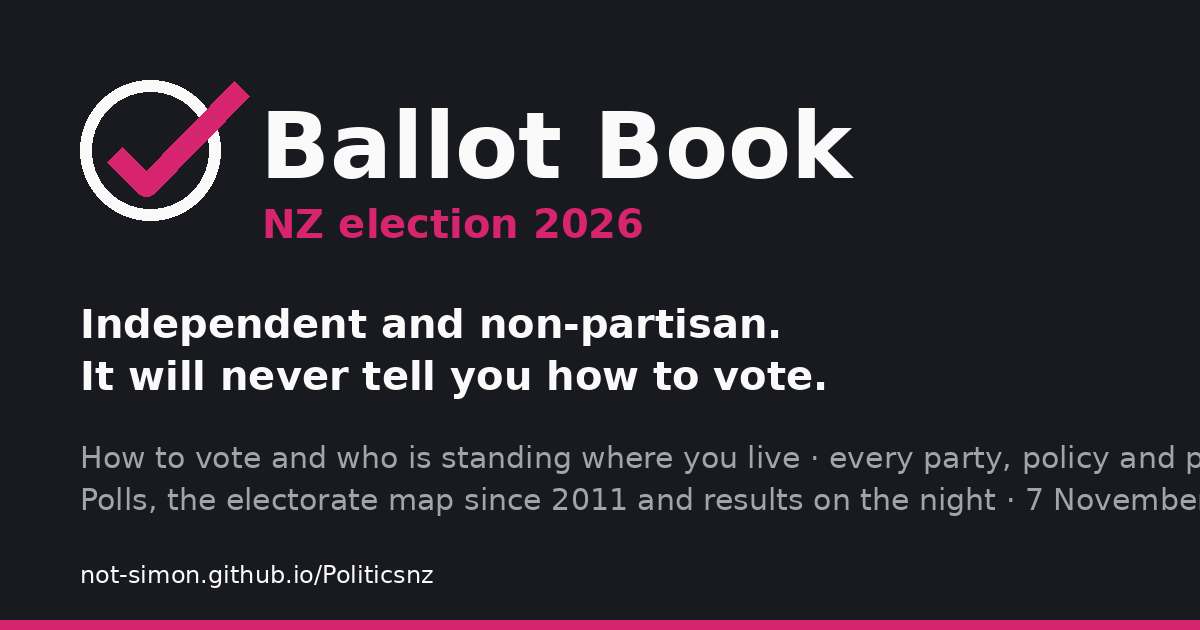
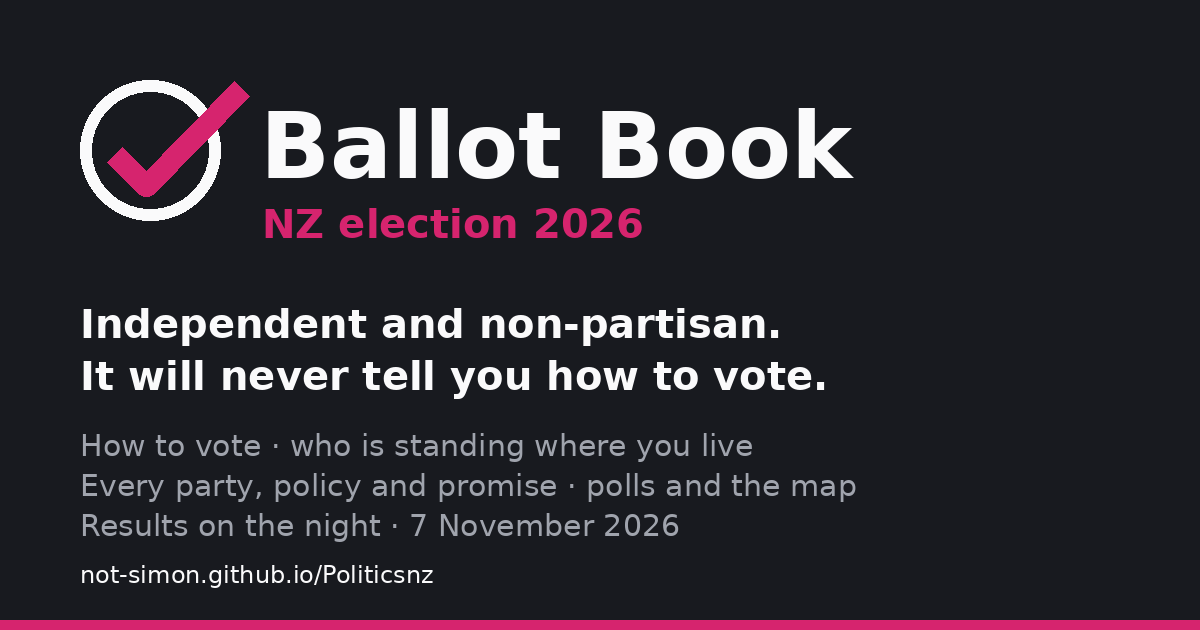
Share image: shorter lines
Claude-Session: https://claude.ai/code/session_01DB8dfYG2hpet8TzuSTSojW

Changed region(s): [[0.0617, 0.6937, 1.0, 0.8746]]

diff --git a/tools/share_assets.py b/tools/share_assets.py
@@ -27,8 +27,8 @@ def share_image():
     d.text((262, 200), 'NZ election 2026', font=mid, fill=SIGNAL)
     d.text((80, 300), 'Independent and non-partisan.', font=mid, fill=PAPER)
     d.text((80, 352), 'It will never tell you how to vote.', font=mid, fill=PAPER)
-    lines = ['How to vote and who is standing where you live · every party, policy and promise', 'Polls, the electorate map since 2011 and results on the night · 7 November 2026']
-    for i, t in enumerate(lines): d.text((80, 440 + i * 42), t, font=small, fill=MUTED)
+    lines = ['How to vote · who is standing where you live', 'Every party, policy and promise · polls and the map', 'Results on the night · 7 November 2026']
+    for i, t in enumerate(lines): d.text((80, 428 + i * 40), t, font=small, fill=MUTED)
     d.text((80, 560), 'not-simon.github.io/Politicsnz', font=micro, fill=PAPER)
     d.rectangle((0, H - 10, W, H), fill=SIGNAL)
     im.save(SITE / 'share.png', optimize=True)
